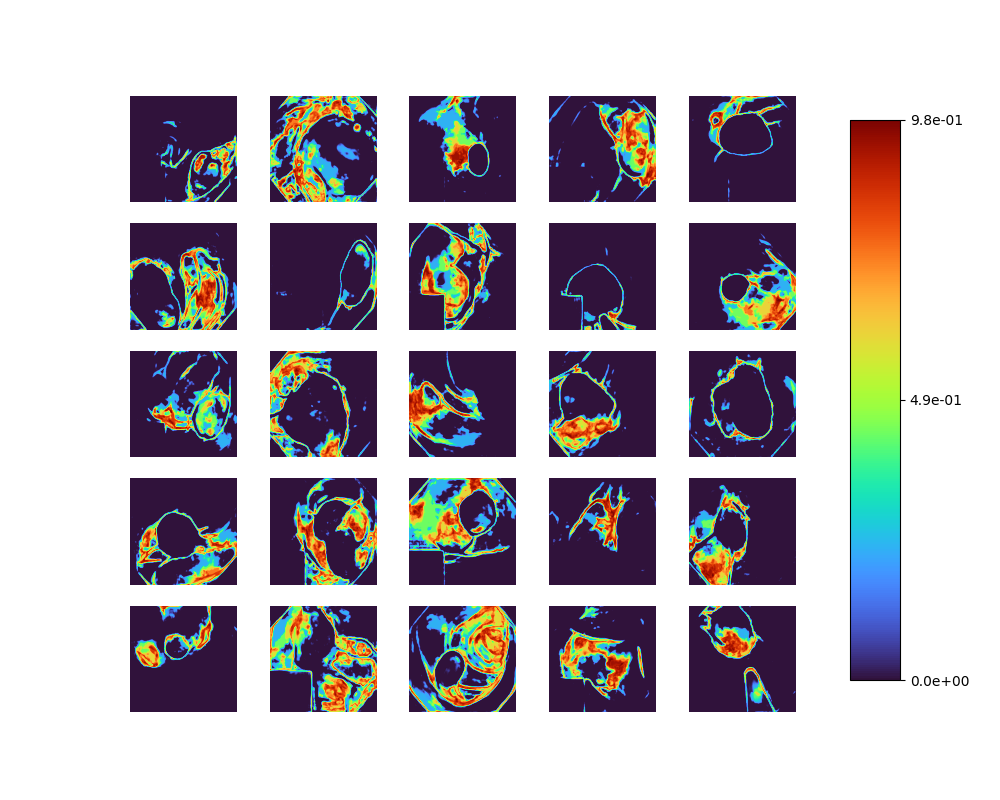
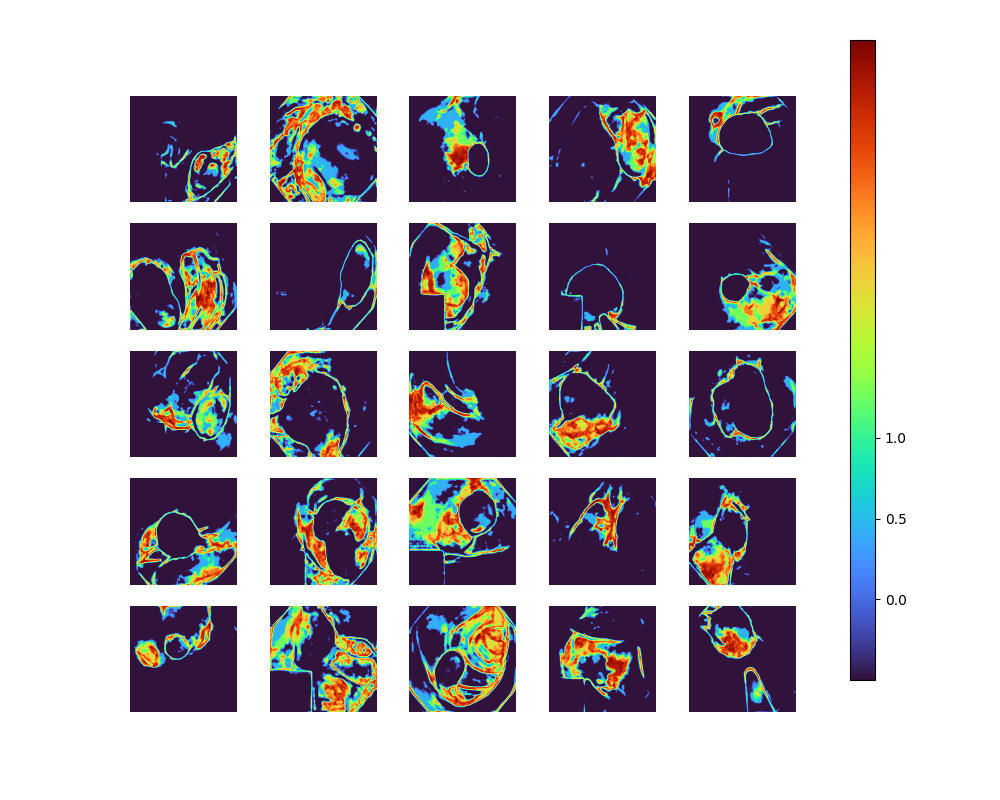
small changes

Changed region(s): [[0.837, 0.0312, 0.961, 0.875]]

diff --git a/src/utils/utils.py b/src/utils/utils.py
@@ -166,8 +166,8 @@ def save_grid(ims, folder, rows=None, cols=None):
         ax.set_aspect("equal") 
    
     fig.subplots_adjust(right=0.8)
-    cbar_ax = fig.add_axes([0.85, 0.15, 0.05, 0.7])
-    fig.colorbar(img, cax=cbar_ax, ticks=[0, 0.5., 1.0])
+    cbar_ax = fig.add_axes([0.85, 0.15, 0.025, 0.8])
+    fig.colorbar(img, cax=cbar_ax, ticks=[0, ims.max()/2., ims.max()])
     
     fig.savefig(folder, transparent=False)
 

diff --git a/src/unet_v2.py b/src/unet_v2.py
@@ -4,7 +4,7 @@ import torch.nn as nn
 import torch.nn.functional as F
 
 
-########################## code from vajira
+########################## unet dropout architecture proposed by vajira
 class DoubleConv(nn.Module):
     """(convolution => [BN] => ReLU) * 2"""
     def __init__(self, in_channels, out_channels):
